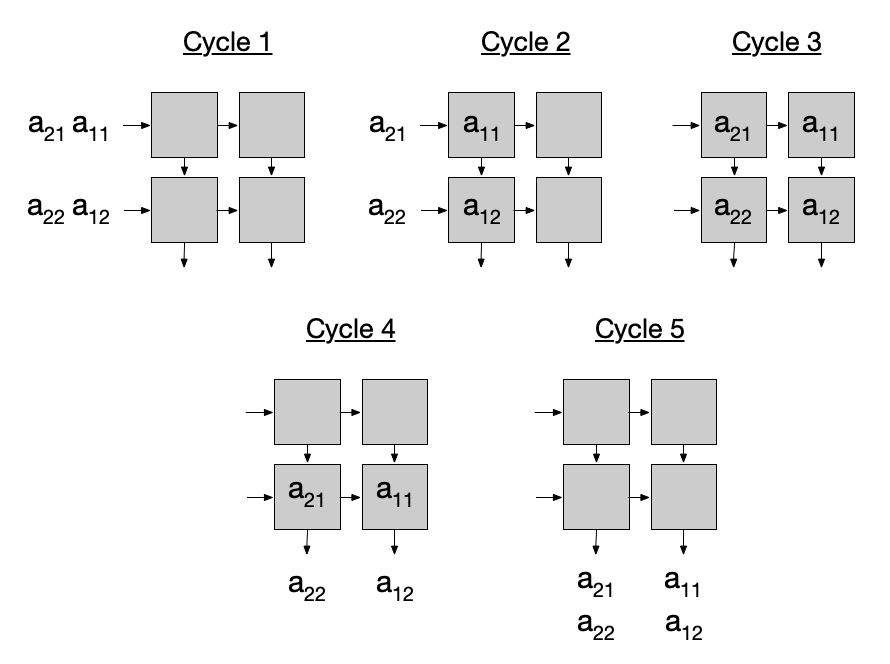
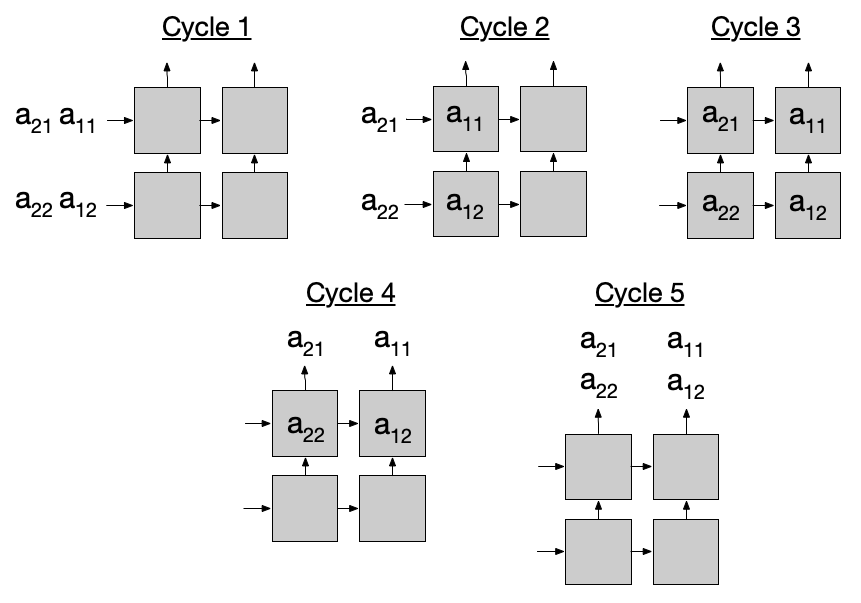
Add mvins and fix transposer

diff --git a/README.md b/README.md
@@ -18,11 +18,15 @@ To track compatible versions of Chipyard and Spike, please update the CHIPYARD.h
 Architecture
 ================
 
-Gemmini is implemented as a RoCC accelerator with non-standard RISC-V custom instructions. The Gemmini unit uses the RoCC port of a Rocket or BOOM _tile_, and by default connects to the memory system through the System Bus (i.e., directly to the L2 cache).
+Gemmini is implemented as a RoCC accelerator with non-standard RISC-V custom instructions.
+The Gemmini unit uses the RoCC port of a Rocket or BOOM _tile_, and by default connects to the memory system through the System Bus (i.e., directly to the L2 cache).
 
-At the heart of the accelerator lies a systolic array which performs matrix multiplications. By default, the matrix multiplication support both _output-stationary_ and _weight-stationary_ dataflows, which programmers can pick between at runtime. However, the dataflow can also be hardened at elaboration time.
+At the heart of the accelerator lies a systolic array which performs matrix multiplications.
+By default, the matrix multiplication support both _output-stationary_ and _weight-stationary_ dataflows, which programmers can pick between at runtime.
+However, the dataflow can also be hardened at elaboration time.
 
-The systolic array's inputs and outputs are stored in an explicity managed scratchpad, made up of banked SRAMs. A DMA engine facilitates the transfer of data between main memory and the scratchpad.
+The systolic array's inputs and outputs are stored in an explicity managed scratchpad, made up of banked SRAMs.
+A DMA engine facilitates the transfer of data between main memory (which is visible to the host CPU) and the scratchpad.
 
 Because weight-stationary dataflows require an accumulator outside the systolic array, we add a final SRAM bank, equipped with adder units, which can be conceptually considered an extension of the scratchpad memory space. The systolic array can store results to any address in the accumulator, and can also read new inputs from any address in the accumulator. The DMA engine can also tranfer data directly between the accumulator and main memory, which is often necessary to load in biases.
 
@@ -148,7 +152,7 @@ These counters count up to `DIM`, and then update the configuration registers fr
 These configuration registers control which of `A` and `B` are to be transposed before being fed into the systolic array.
 They also control whether the preloaded values in the systolic array are to be maintained for the next matmul, or whether they are to be overwritten and replaced.
 
-The transposer itself is implemented as a very simple systolic array, which transports inputs from left-to-right for `DIM` cycles, and then up-to-down for another `DIM` cycles.
+The transposer itself is implemented as a very simple systolic array, which transports inputs from left-to-right for `DIM` cycles, and then down-to-up for another `DIM` cycles.
 This is illustrated in the diagram below:
 
 ![Transposer](./img/transposer.png)
@@ -262,39 +266,59 @@ The three most signficant bits are reserved, and have special meanings:
 * Bit 31 (the MSB) is 0 if we are addressing the scratchpad, and 1 if we are addressing the accumulator.
 * Bit 30 is ignored if we are addressing the scratchpad, or if we are reading from the accumulator. If, instead, we are writing to the accumulator, then bit 30 is 0 if we want to overwrite the data at that address, and 1 if we want to accumulate on top of the data already at that address.
 * Bit 29 is ignored if we are addressing the scratchpad, or if we are writing to the accumulator. If, instead, we are reading from the accumulator, then bit 29 is 0 if we want to read scaled-down `inputType` data from the accumulator, and 1 if we want to read `accType` data from the accumulator.
+    - If bit 29 is 1 for an accumulator read address, then we do not apply activation functions or scaling to the output of the accumulator.
+
+The memory addressing scheme for a Gemmini config with a 2x2 systolic array is illustrated below:
 
 ![Gemmini's memory addressing scheme](./img/memory-addressing.png)
+
+Gemmini accesses main memory addresses (which are also visible to the CPU) through their software-visible virtual addresses.
+Physical translation addresses are handled by Gemmini, transparently to the programmer.
 
 # ISA
 
 This section describes Gemmini's assembly-level ISA which is made up of custom RISC-V instructions.
 
 ## Data Movement
-### `mvin` Move Data From L2/DRAM to Scratchpad
+### `mvin` Move Data From Main Memory to Scratchpad
 **Format:** `mvin rs1, rs2`
 - `rs1` = virtual DRAM address (byte addressed) to load into scratchpad
-- `rs2[31:0]` = local scratchpad address (systolic array single-axis addressed; i.e. `tileColumns x meshColumns x dataBytes` bytes of data are captured in 1 address)
-    - if the 32nd (Most Significant) bit is set to logical 1, `rs2[31:0]` refers to an address in the accumulator memory space. In this case, the bitwidth of the elements is `tileColumns x meshColumns x accumulated result bitwidth`.
+- `rs2[31:0]` = local scratchpad or accumulator address
 - `rs2[47:32]` = number of columns to load in
-- `rs2[63:48]` = number of rows to load in
+- `rs2[63:48]` = number of rows to load in. Must be less than or equal to `DIM`.
 - `funct` = 2
 
 **Action:** Scratchpad[rs2] <= DRAM[Translate[rs1]]
-- Loads a fixed amount of data (`tileColumns x meshColumns x tileRows x meshRows x dataBytes` bytes) into the scratchpad
-- Load is sequential from the rs1/rs2 base addresses. Stride must be set by the `config_mvin` command
+- Loads a 2D matrix from main memory into Gemmini's private memory.
+- Load is sequential from the rs1/rs2 base addresses.
+- Main memory stride must be set by the `config_mvin` command.
+- If the number of columns we load in are greater than `DIM`, then multiple submatrices will be moved in.
+The private-memory stride between these submatrices is set by the `config_mvin` command.
+
+The figure below illustrates how the `mvin` command works:
+
+![Gemmini's mvin command](./img/mvin.png)
+
+In addition, the figure below illustrates the special case where the number of columns moved-in is greater than `DIM`:
+
+![Gemmini's mvin command with many cols](./img/block-mvin.png)
+
+**Notes:**
+* There are actually **three** `mvin` instructions in Gemmini: `mvin`, `mvin2`, and `mvin3`.
+`mvin2` and `mvin3` are completely identical to `mvin`, except that they have their own independent set of configuration registers.
+When calling `config_mvin` (described below), the programmer can choose which `mvin` instruction they want to configure.
+* The reason we have three `mvin` instructions is so that the programmer can overlap loads for A, B, and D matrices (for a `A*B+D` matmul), where A, B, and D may all have different main-memory-strides. 
 
 ### `mvout` Move Data from Scratchpad to L2/DRAM
 **Format:** `mvout rs1, rs2`
 - `rs1` = virtual DRAM address (byte addressed) to write to from scratchpad
-- `rs2[31:0]` = local scratchpad address (systolic array single-axis addressed; i.e. `tileColumns x meshColumns x dataBytes` bytes of data are captured in 1 address)
-    - if the 32nd (Most Significant) bit is set to logical 1, `rs2[31:0]` refers to an address in the the accumulator memory space. In this case, the bitwidth of the elements is `tileColumns x meshColumns x accumulated result bitwidth`.
-    - if the 30th bit is set to logical 1, the `mvout` command will store the full accumulator row in main memory, rather than scaling it down to the input type. Activation functions and accumulator scaling will not be applied in this case
+- `rs2[31:0]` = local scratchpad address
 - `rs2[47:32]` = number of columns to store
 - `rs2[63:48]` = number of rows to store
 - `funct` = 3
 
 **Action:** DRAM[Translate[rs1]] <= Scratchpad[rs2]
-- Stores a fixed amount of data (`tileColumns x meshColumns x tileRows x meshRows x dataBytes` bytes) from the scratchpad to L2/DRAM
+- Stores a 2D matrix from the scratchpad to main-memory
 - Store is sequential from the rs1/rs2 base addresses. Stride must be set by the `config_mvout` command
 
 ## Configuration
@@ -309,9 +333,12 @@ This section describes Gemmini's assembly-level ISA which is made up of custom R
 "A" in this context refers to the left-hand matrix A in the matmul represented by A * B = C.
 If this stride is 1, then we feed consecutive rows in the scratchpad, starting from the starting address of A, into the systolic array as the A matrix.
 If the stride is 2, then we feed every other row into the systolic array instead.
-- `rs1[63:32]` = the number of bits by which the accumulated result of a matmul is right-shifted when leaving the accumulator
+- `rs1[63:32]` = the scalar value by which we scale the `accType` output of the accumulator down to `inputType` values when reading from the accumulator.
+    - In the default config, `rs1[63:32]` is of type `float32`
 - `rs2[31:0]` = the number of bits by which the accumulated result of a matmul is right-shifted when leaving the systolic array
+    - This parameter is only relevant in output-stationary mode, when partial sums must be accumulated within the systolic array itself, and scaled-down when leaving the systolic array and being written into the scratchpad.
 - `rs2[63:32]` = the number of bits by which 6 should be left-shifted before applying relu6
+    - This parameter is ignored if the relu6 activation function is not being used.
 - `funct` = 0
 
 **Action:** mode <= rs1(2); shift <= rs2; A_stride <= rs1[31:16]
@@ -334,9 +361,9 @@ This limitation may be lifted in the future.
 ### `config_mvin` configures the Load pipeline
 **Format:** `config_mvin rs1 rs2`
 - `rs1[0:1]` must be `01`
-- `rs1[2]` is 0 if `mvin`s to the accumulator have the same bitwidth as accumulator types, and 1 if they have the same bitwidth as inputs to the systolic array
+- `rs1[2]` is 0 if `mvin`s to the accumulator are of type `accType`, and 1 if they are `inputType`
 - `rs1[4:3]` is 0 if the stride is being set for `mvin`, 1 if the stride is being set for `mvin2`, and 2 if the stride is being set for `mvin3`
-- `rs1[63:32]` is the "scale" by which to multiply data as it's being moved in to the scratchpad. This is ignored if Gemmini isn't built with the capability to scale values during `mvin`s.
+- `rs1[63:32]` is the "scale" by which to multiply data as it's being moved in to the scratchpad. This is ignored if Gemmini isn't configured to have the ability to scale values during `mvin`s.
 - `rs2` = the stride in bytes
 - `funct` = 0
 
@@ -367,23 +394,26 @@ The parameters controlling this feature are:
 
 ### `flush` flushes the TLB
 **Format:** `flush rs1`
-- `rs1` = If `rs1[0]` is 1, then the current TLB request is skipped (if its waiting for an interrupt). Otherwise, the current TLB request is repeated.
+- `rs1` = If `rs1[0]` is 1, then the current TLB request is skipped (if it has hit a page-fault and is waiting for an interrupt).
+Otherwise, the current TLB request is repeated.
 
 **Notes:**
 
-- This instruction executes _as soon as it is received_ without waiting for other instructions which may be queued up. It is the programmer's responsibility to insert fences if necessary.
+- This instruction executes _as soon as it is received_ without waiting for other instructions which may be queued up.
+It is the programmer's responsibility to insert fences if necessary.
 
 ## Core Matmul Sequences
-Every single matrix multiply operation is a combination of `matmul.preload` and `matmul.compute` (due to the length of a single instruction it was split into two instructions). `matmul.preload` should precede the `matmul.compute`.
+Every single matrix multiply operation is a combination of `matmul.preload` and `matmul.compute` (due to the length of a single instruction, it was split into two instructions).
+`matmul.preload` should precede the `matmul.compute`.
 
 Example:
 ```
-//// first matmul ////
+//// OS matmul example ////
 // rs1 = InputD
 // rs2 = OutputC
 // rs3 = InputA
 // rs4 = InputB
-//matmul InputA InputB OutputC InputD
+// matmul InputA InputB OutputC InputD
 1. matmul.preload $rs1 $rs2
 2. matmul.compute $rs3 $rs4
 ```
@@ -391,14 +421,15 @@ Example:
 
 **Notes on addressing:**
 - For B or D, the address can be replaced with all high bits to input a 0 matrix instead.
-- If the 32nd bit of any address is high, it will point to the accumulator's memory space.
+- For A, the address can be replaced with all high bits to input a matrix with undefined garbage data instead.
 
 ### Preloading
 **Format:** `matmul.preload rs1, rs2`
-- `rs1[31:0]` = local scratchpad address (systolic array single-axis addressed) of D matrix (when output-stationary), or B matrix (when weight-stationary)
+- `rs1[31:0]` = local scratchpad address of D matrix (when output-stationary), or B matrix (when weight-stationary)
 - `rs1[47:32]` = number of columns of D/B matrix
 - `rs1[63:48]` = number of rows of D/B matrix
-- `rs2[31:0]` = local scratchpad address (systolic array single-axis addressed) of C matrix. If this is set to all high bits, then C will not be written to the scratchpad. If the 32nd _and_ 31st bits are high, the result will be accumulated on top of the previous result pointed to by this address in the accumulator
+- `rs2[31:0]` = local scratchpad address of C matrix.
+If this is set to all high bits, then C will not be written to the scratchpad or accumulator.
 - `rs2[47:32]` = number of columns of C matrix
 - `rs2[63:48]` = number of rows of C matrix
 - `funct` = 6
@@ -417,66 +448,19 @@ Example:
 - `funct` = 4
 - This instruction will compute on the value preloaded (D if output-stationary, or B if weight-stationary)
 
-#### Accumulate on Previous Computation
+#### Re-use Previous Preloads
 **Format:** `matmul.compute.accumulated rs1, rs2`
 - `funct` = 5
 - `rs1` and `rs2` have the same encoding as the `matmul.compute.preloaded` encoding
-- If output-stationary, this instruction will compute on the previously computed result (C) in the systolic array
+- If output-stationary, this instruction will compute on the previously computed result (C) in the systolic array, accumulating on top of it
 - If weight-stationary, this instruction will compute on the previously preloaded weights (B) in the systolic array
 
-# Hardware Tiler ISA
+## Loop Instructions
 
-This section describes an additional set of RoCC instructions that configure and invoke the hardware tiler in Gemmini. From the software's perspective the original instructions and these new instructions should be seen as totally unrelated. It is easy for software to safely interleave original instructions with these hardware tiling instructions, but this comes at the cost of increased serialization latency; for example, if you issue an original `preload` and `matmul` from above, and then immediately issue a `compute_cisc`, the last RoCC instruction will not start to be processed until the `preload` and `matmul` are completely finished from the software's perspective (the same works in the opposite direction -- `compute_cisc` before a `preload` and `matmul`).
+Gemmini includes CISC-type instructions which can perform matmuls and convolutions on data that is much larger than `DIMxDIM`.
 
-## Hardware Tiler Configuration
-### `config_cisc` configures the Execute pipeline
-**Format:** `config_ex rs1 rs2`
-- `rs1[4:3]` = activation function: either relu (1), relu6 (2), or no activation function (0)
-- `rs1[63:32]` = the number of bits by which the accumulated result of a matmul is right-shifted when leaving the accumulator
-- `rs2[31:0]` = the number of bits by which the accumulated result of a matmul is right-shifted when leaving the systolic array
-- `rs2[63:32]` = the number of bits by which 6 should be left-shifted before applying relu6
-- `funct` = 10
+**These loop instructions are experimental and subject to change.**
 
-**Action:** semantically equivalent subset of the `config_ex` instruction fields.
-
-### `addr_ab` sets the virtual address of the A and B matrices
-**Format:** `addr_ab rs1, rs2`
-- `rs1` = the A matrix virtual address
-- `rs2` = the B matrix virtual address
-- `funct` = 11
-
-### `addr_cd` sets the virtual address of the C and D matrices
-**Format:** `addr_ab rs1, rs2`
-- `rs1` = the C matrix virtual address
-- `rs2` = the D matrix virtual address
-- `funct` = 12
-
-### `size_mn` sets the M and N dimensions in terms of elements
-**Format:** `size_mn rs1, rs2`
-- `rs1` = sets M, the number of rows in A, C, and D matrices 
-- `rs2` = sets N, the number of columns in B, C, and D matrices
-- `funct` = 13
-
-### `size_k` sets the K dimension in terms of elements
-**Format:** `size_k rs1`
-- `rs1` = sets K, the number of columns in A, and rows in B
-- `funct` = 14
-
-### `RPT_BIAS` sets whether the D is a repeating row
-**Format:** `rpt_bias rs1`
-- `rs1[0]` = set to 1 if D is not a 2D matrix, but really a 1D row that should be duplicated by the hardware
-- `funct` = 15
-
-### `reset` resets the hardware tiler input processing engine
-**Format:** `reset`
-- `funct` = 16
-
-**Action:** this is only used if Gemmini has entered an error state while in the hardware-tiler mode due to invalid RoCC commands. Using this command will reset Gemmini. However, right now, there is no way for the software to check for these errors. 
-
-
-### `COMPUTE_CISC` runs a complete hardware tiling sequence with the configured A, B, C, D, M, N, K, RPT_BIAS values
-**Format:** `compute_cisc`
-- `funct` = 17
 
 # Citing Gemmini
 If Gemmini helps you in your academic research, you are encouraged to cite our paper. Here is an example bibtex:
